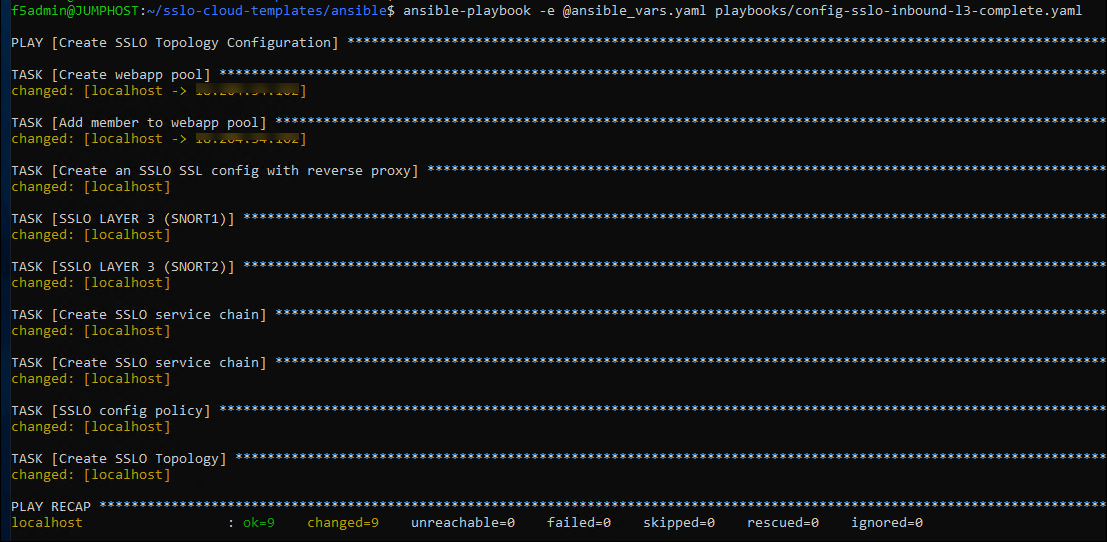
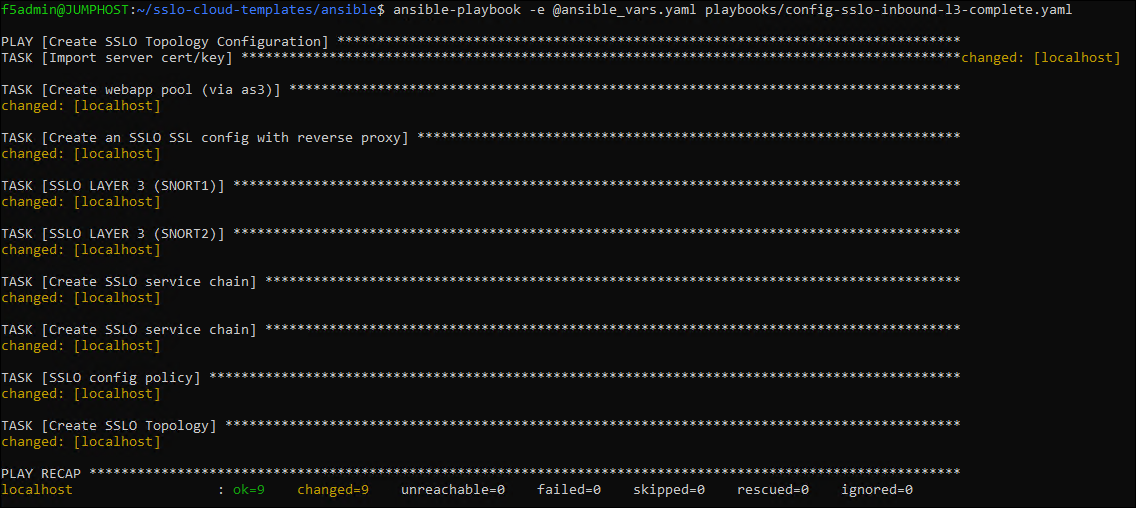
SSLO 301 updates for ansible changes

Changed region(s): [[0.0, 0.0, 1.0, 1.0]]

diff --git a/docs/class3/module4/lab9.rst b/docs/class3/module4/lab9.rst
@@ -12,9 +12,19 @@ On the Windows jump host, open another web browser window and connect to: **http
 
 You should see an SSL warning since the certificate is not trusted (using default self-signed certificate).
 
-.. image:: ./images/webapp-1.png
+.. image:: ./images/webapp-1a.png
    :align: left
    :scale: 65 %
+
+|
+
+Click on **View Certificate** to look at the custom certificate that was installed by the Ansible playbook.
+
+.. image:: ./images/webapp-1b.png
+   :align: left
+   :scale: 65 %
+
+|
 
 Accept the warnings and then you should see the demo Wordpress web site.
 
@@ -22,6 +32,7 @@ Accept the warnings and then you should see the demo Wordpress web site.
    :align: left
    :scale: 60 %
 
+|
 
 View Decrypted Traffic
 --------------------------------------------------------------------------------

diff --git a/docs/class3/module4/lab5.rst b/docs/class3/module4/lab5.rst
@@ -45,3 +45,5 @@ Variables are set as follows:
      - The **TO Service** IP address of the second L3 inspection device
    * - webapp_pool
      - The private IP address of the Wordpress application server
+   * - sslo_vip
+     - The private IP address of the BIG-IP (SSL Orchestrator) Virtual Server
